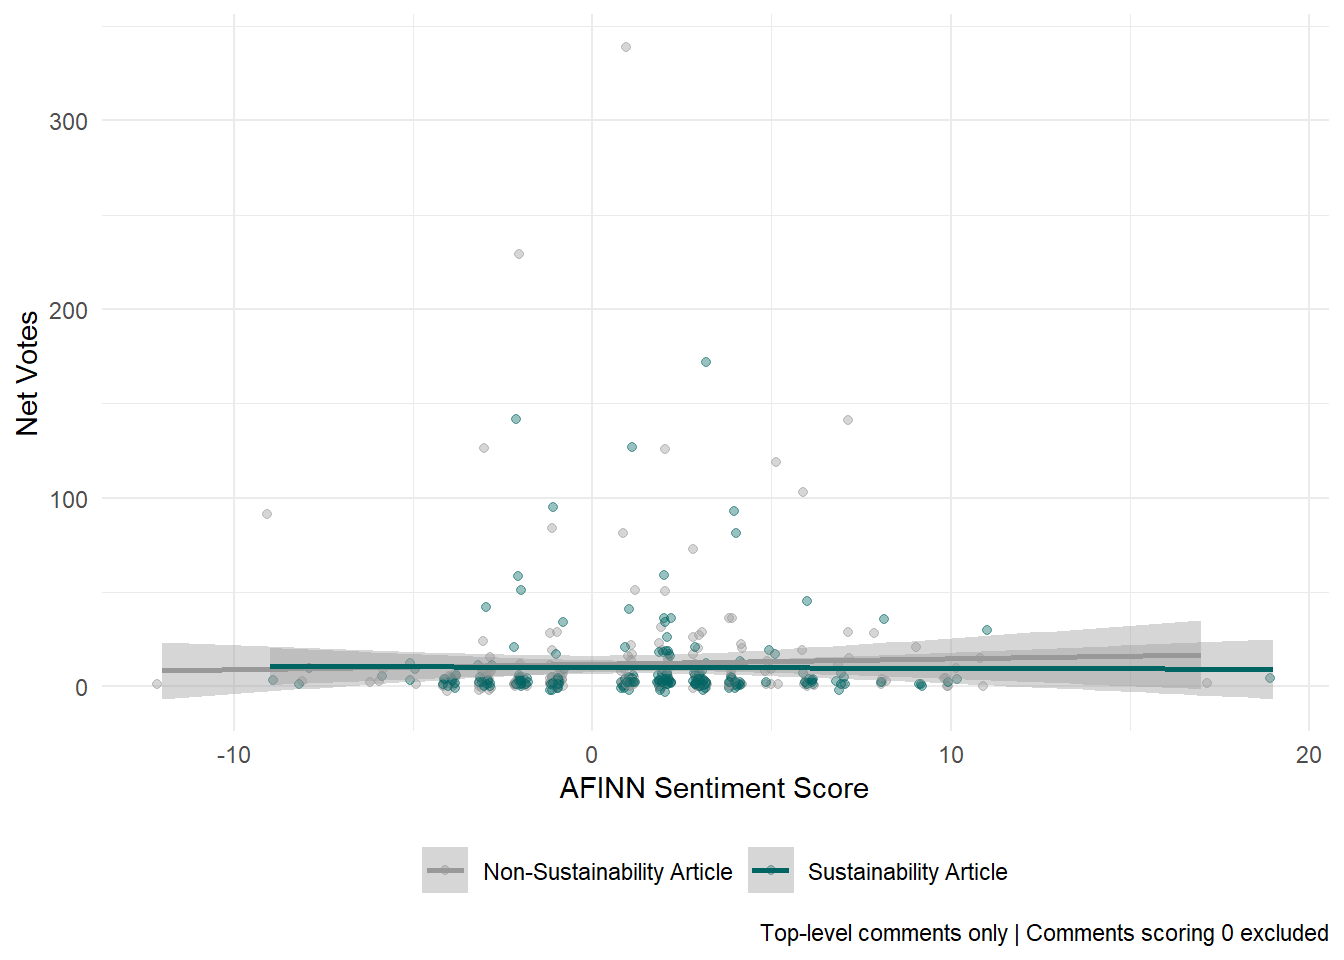
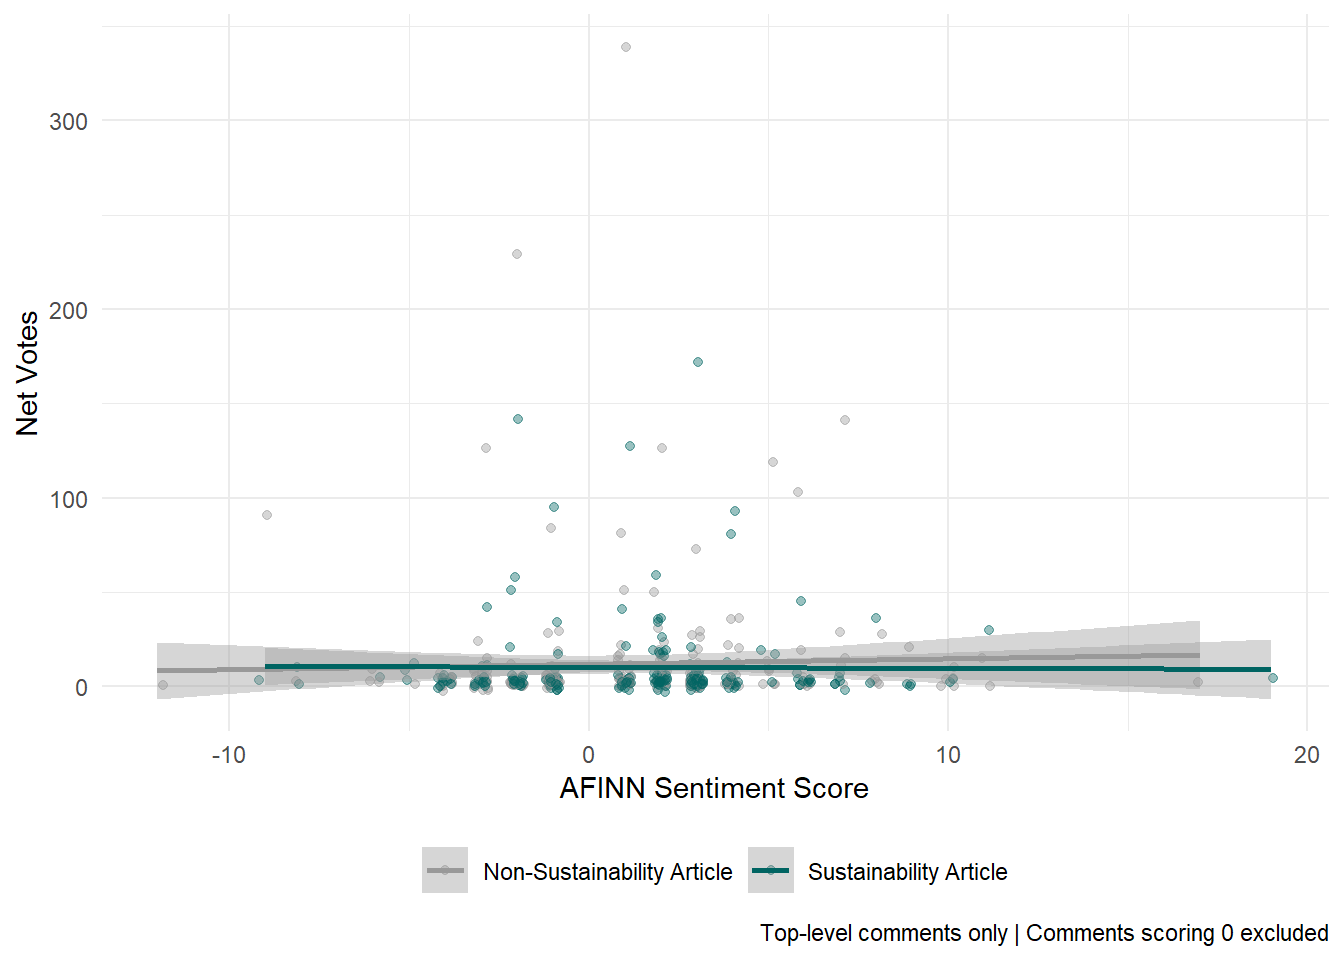
blog poster

diff --git a/docs/Blog/posts/Green-Riding-Green-Washing/index.html b/docs/Blog/posts/Green-Riding-Green-Washing/index.html
@@ -182,6 +182,9 @@ ul.task-list li input[type="checkbox"] {
 
 
 
+<iframe src="Pinkbike_Project_Poster.pdf" width="100%" height="800px">
+</iframe>
+<p><a href="Pinkbike_Project_Poster.pdf">Download Poster (PDF)</a></p>
 <section id="preamble" class="level1">
 <h1>Preamble</h1>
 <p>This blog post accompanies my poster, presented at NASSM 2026 in Puerto Rico. The project I am presenting, “Green Riding or Green Washing?”, aims to investigate how consumers react to the inclusion of sustainability-related information in sport product marketing through the lens of message source and message framing. To investigate this, I use data from <a href="pinkbike.com">Pinkbike</a>, a mountain bike news and review website. Specifically, I collect article text from product reviews and press releases, along with the comments posted by users on those articles. To analyze the data, I use sentiment analysis to determine the overall positivity or negativity of comments, and then compare the reactions to different kinds of articles and to articles which do or do not contain sustainability-related information.</p>

diff --git a/docs/Blog/index.html b/docs/Blog/index.html
@@ -220,7 +220,7 @@ window.Quarto = {
 
 <div class="quarto-listing quarto-listing-container-grid" id="listing-listing">
 <div class="list grid quarto-listing-cols-3">
-<div class="g-col-1" data-index="0" data-categories="c3BvcnQtZWNvbG9neSUyQ3Nwb3J0LW1hcmtldGluZw==" data-listing-date-sort="1779336000000" data-listing-file-modified-sort="1779476130324" data-listing-date-modified-sort="NaN" data-listing-reading-time-sort="10" data-listing-word-count-sort="1858">
+<div class="g-col-1" data-index="0" data-categories="c3BvcnQtZWNvbG9neSUyQ3Nwb3J0LW1hcmtldGluZw==" data-listing-date-sort="1779336000000" data-listing-file-modified-sort="1779476314045" data-listing-date-modified-sort="NaN" data-listing-reading-time-sort="10" data-listing-word-count-sort="1858">
 <a href="../Blog/posts/Green-Riding-Green-Washing/index.html" class="quarto-grid-link">
 <div class="quarto-grid-item card h-100 card-left">
 <p class="card-img-top"><img loading='lazy' src="posts\Green-Riding-Green-Washing\index_files\figure-html\fig-sustainability-sentiment-1.png" style="height: 150px;"  class="thumbnail-image card-img"/></p>